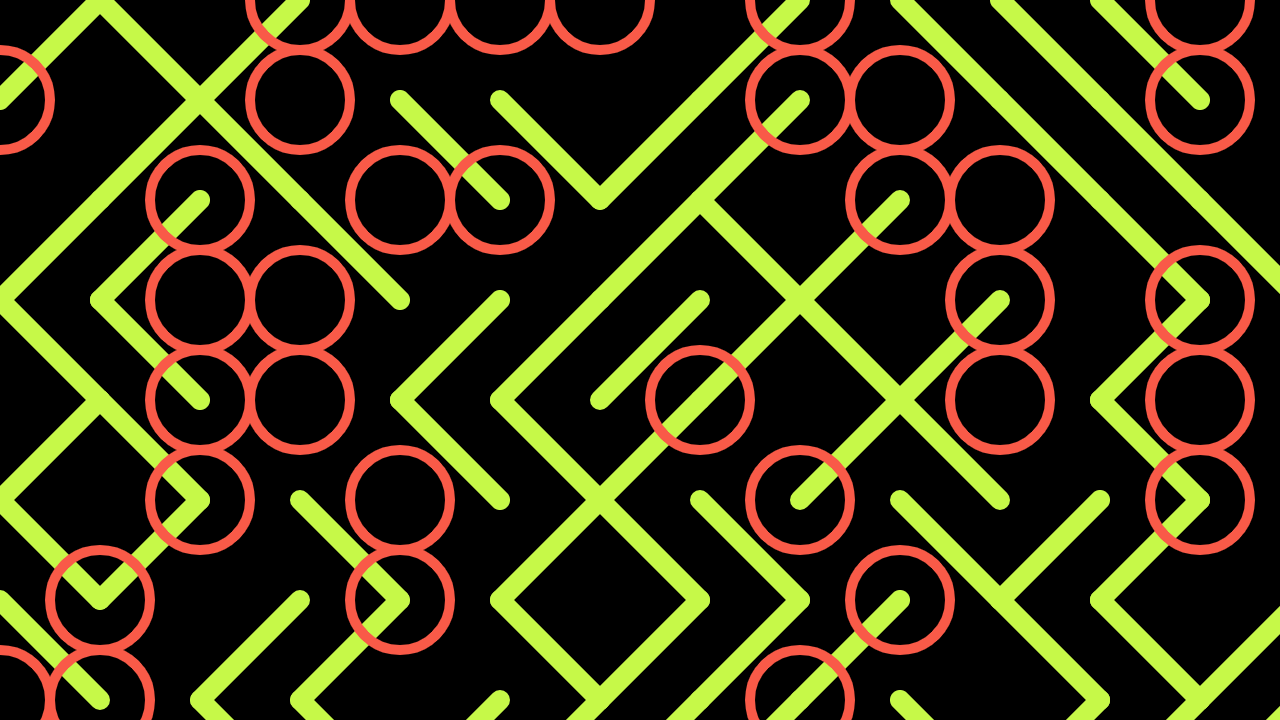
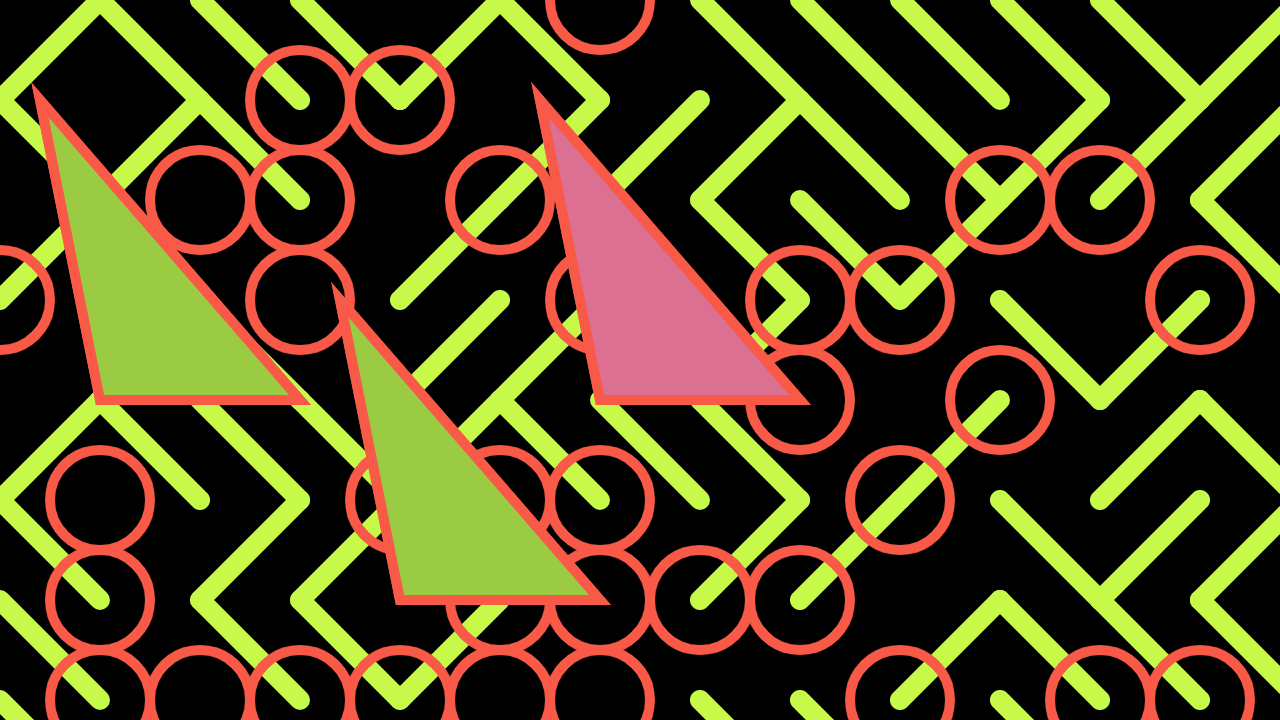
update on addition of shapes and sound

diff --git a/final_project/sketch.js b/final_project/sketch.js
@@ -7,7 +7,6 @@
 var dub
 var beat
 var acoustic
-var reggae
 
 function preload(){
 	dub = loadSound ('dub.mp3');
@@ -20,6 +19,9 @@ function preload(){
 function setup(){
 	createCanvas(640, 360);
 	pattern ();
+}
+function pattern (){
+
 }
 
 function mousePressed (){
@@ -47,9 +49,10 @@ function button (x, y, s, sound) {
 		fill (154, 203, 67);
 }
 triangle (x - 80, y - 50, x - 50, y + 100, x + 50, y + 100, s);
-
-	pattern();
 }
+
+
+
 function pattern (){
 	background ('black');
 
